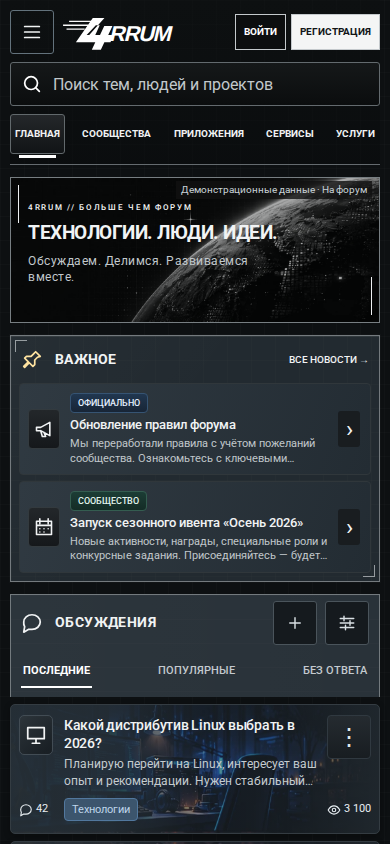
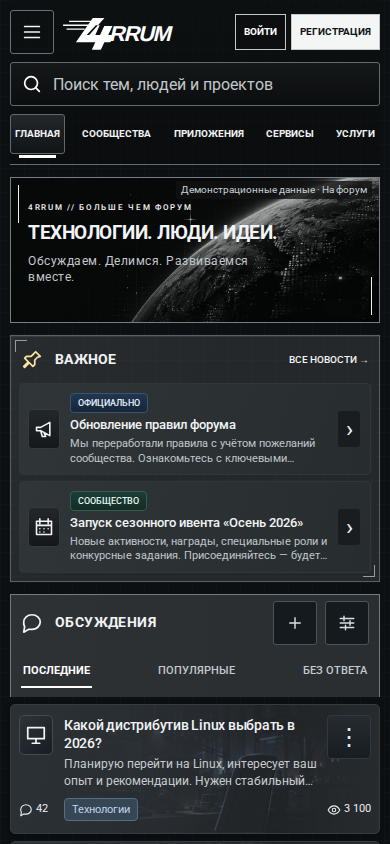
Главная: сдержанная графитовая палитра и спокойная лента (#118)
* Спокойный нейтральный графит и приглушённые иллюстрации ленты

* Снять эталоны спокойной палитры для просмотра

* Закрепить просмотренные эталоны сдержанной палитры

diff --git a/apps/web/app/home-alpha.css b/apps/web/app/home-alpha.css
@@ -9,7 +9,7 @@ body:has(.forum-home) {background-color:#0d1012!important;color:#f1f3f4;min-heig
 body:has(.forum-home) .app-page-frame {display:block;margin:0;padding:0;}
 body:has(.forum-home) main.shell.main {width:100%;max-width:none;margin:0;padding:0;overflow:visible;}
 body:has(.forum-home) .site-footer {display:none;}
-.forum-home {--f-text:#f1f3f4;--f-muted:#b2b9bd;--f-line:#59666e;--f-accent:#e5f3f0;--f-panel:#222a30;display:grid;grid-template-columns:274px minmax(0,1fr) 344px;grid-template-rows:78px 162px auto;gap:16px 18px;max-width:1712px;margin:0 auto;padding:0 20px 36px;font:400 14px/1.35 ForumRoboto,Arial,sans-serif;letter-spacing:normal;min-width:0;color:var(--f-text);}
+.forum-home {--f-text:#f1f3f4;--f-muted:#b2b9bd;--f-line:#59666e;--f-accent:#e5f3f0;--f-panel:#24282b;display:grid;grid-template-columns:274px minmax(0,1fr) 344px;grid-template-rows:78px 162px auto;gap:16px 18px;max-width:1712px;margin:0 auto;padding:0 20px 36px;font:400 14px/1.35 ForumRoboto,Arial,sans-serif;letter-spacing:normal;min-width:0;color:var(--f-text);}
 .forum-home,.forum-home * {box-sizing:border-box;}
 .forum-home :is(h1,h2,h3,p,ol,dl,dd) {margin:0;}
 .forum-home :is(h1,h2,h3) {font-family:inherit;color:var(--f-text);text-shadow:none;}
@@ -41,7 +41,7 @@ body:has(.forum-home) .site-footer {display:none;}
 .forum-home .profile-menu .text-button {font-size:12px;color:#bdc5c9;}
 .forum-home .forum-header-join,.forum-home .forum-menu,.forum-home .forum-sidebar-close,.forum-home .forum-sidebar-backdrop {display:none;}
 .forum-home .forum-sidebar {grid-column:1;grid-row:2/4;display:flex;flex-direction:column;gap:18px;position:static;min-width:0;height:auto;padding:0;background:transparent;border:0;overflow:visible;align-self:start;}
-.forum-home :is(.forum-categories,.forum-side-stats,.forum-panel,.forum-important) {position:relative;border:1px solid #747a7e;border-radius:0;background:linear-gradient(125deg,#ffffff03,transparent 45%),#222a30;box-shadow:inset 0 1px #ffffff10;}
+.forum-home :is(.forum-categories,.forum-side-stats,.forum-panel,.forum-important) {position:relative;border:1px solid #596065;border-radius:0;background:linear-gradient(125deg,#ffffff03,transparent 45%),#24282b;box-shadow:inset 0 1px #ffffff10;}
 .forum-home :is(.forum-categories,.forum-side-stats,.forum-panel,.forum-important)::before {content:'';position:absolute;inset:4px;pointer-events:none;background:linear-gradient(#c8cccf,#c8cccf) left top/12px 1px no-repeat,linear-gradient(#c8cccf,#c8cccf) left top/1px 12px no-repeat,linear-gradient(#c8cccf,#c8cccf) right bottom/12px 1px no-repeat,linear-gradient(#c8cccf,#c8cccf) right bottom/1px 12px no-repeat;opacity:.7;}
 .forum-home :is(.forum-categories,.forum-side-stats,.forum-panel)::after {content:'+';position:absolute;top:10px;right:12px;font:16px monospace;color:#c1c8cb;pointer-events:none;}
 .forum-home .forum-categories {padding:0 10px 14px;}
@@ -88,7 +88,7 @@ body:has(.forum-home) .site-footer {display:none;}
 .forum-home .forum-important>header h2 svg {color:#ffe3a0;}
 .forum-home .forum-important>header>a {font-size:12px;font-weight:500;text-transform:uppercase;white-space:nowrap;}
 .forum-home .forum-important-list {padding:0 8px 8px;display:grid;gap:6px;}
-.forum-home .forum-important-row {display:grid;grid-template-columns:48px 98px minmax(0,1fr) 89px 42px 54px 28px;align-items:center;gap:10px;min-height:68px;padding:6px;border:1px solid #30373b;border-radius:4px;background:linear-gradient(110deg,#303a42,#232c33);}
+.forum-home .forum-important-row {display:grid;grid-template-columns:48px 98px minmax(0,1fr) 89px 42px 54px 28px;align-items:center;gap:10px;min-height:68px;padding:6px;border:1px solid #30373b;border-radius:4px;background:linear-gradient(110deg,#303538,#272c2f);}
 .forum-home .forum-important-icon {display:grid;place-items:center;width:46px;height:46px;border:1px solid #333a3e;border-radius:4px;background:linear-gradient(#23272a,#15181b);}
 .forum-home .forum-important-icon svg {width:26px;height:26px;}
 .forum-home .forum-important-copy {display:contents;}
@@ -101,7 +101,7 @@ body:has(.forum-home) .site-footer {display:none;}
 .forum-home .forum-important-stat {display:flex;gap:5px;align-items:center;font-size:12px;white-space:nowrap;}
 .forum-home .forum-important-stat svg {width:18px;height:18px;}
 .forum-home .forum-important-arrow {display:grid;place-items:center;width:26px;height:36px;background:#191d20;border-radius:3px;font-size:24px;}
-.forum-home .forum-feed-toolbar {margin-top:14px;display:flex;align-items:center;gap:10px;min-height:50px;padding:0 13px;border:1px solid #737a7e;border-bottom:0;background:#293239;}
+.forum-home .forum-feed-toolbar {margin-top:14px;display:flex;align-items:center;gap:10px;min-height:50px;padding:0 13px;border:1px solid #737a7e;border-bottom:0;background:#2a2e31;}
 .forum-home .forum-feed-title {display:flex;align-items:center;gap:12px;font-size:16px;font-weight:700;letter-spacing:.4px;text-transform:uppercase;white-space:nowrap;}
 .forum-home .forum-tabs {display:flex;gap:18px;margin-left:auto;min-width:0;}
 .forum-home .forum-tabs button {position:relative;min-height:44px;padding:0 2px;font-size:11px;text-transform:uppercase;white-space:nowrap;font-weight:500;color:#c4cacf;border-radius:0;}
@@ -112,7 +112,8 @@ body:has(.forum-home) .site-footer {display:none;}
 .forum-home :is(.forum-feed-create,.forum-filter-toggle) svg {width:18px;height:18px;}
 .forum-home .forum-topic-columns {display:grid;grid-template-columns:minmax(0,1fr) 122px 44px 64px 158px 30px;gap:10px;min-height:30px;padding:0 10px 0 80px;align-items:center;border:1px solid #3d4549;color:#ced4d7;font-size:10px;text-transform:uppercase;white-space:nowrap;}
 .forum-home .forum-feed {display:grid;gap:5px;border:0;background:transparent;overflow:visible;}
-.forum-home .forum-topic {position:relative;display:grid;grid-template-columns:54px minmax(0,1fr) 122px 44px 64px 158px 30px;gap:10px;align-items:center;min-height:62px;margin:0;padding:4px 10px 4px 14px;border:1px solid #343c42;border-radius:5px;background-color:#252e35;background-image:linear-gradient(90deg,#252e35fa 0%,#252e35ed 26%,#252e358a 52%,#252e358f 75%,#252e35cc 100%),var(--topic-image);background-size:auto,100% auto;background-repeat:no-repeat;background-position:center,right center;box-shadow:0 2px 6px #0005;transition:border-color .15s,box-shadow .15s;isolation:isolate;}
+.forum-home .forum-topic {position:relative;display:grid;grid-template-columns:54px minmax(0,1fr) 122px 44px 64px 158px 30px;gap:10px;align-items:center;min-height:66px;margin:0;padding:4px 10px 4px 14px;border:1px solid #343c42;border-radius:5px;background-color:#282d31;background-image:linear-gradient(110deg,#ffffff04,transparent 65%);box-shadow:0 2px 6px #0005;transition:border-color .15s,box-shadow .15s;isolation:isolate;}
+.forum-home .forum-topic::after {content:"";position:absolute;inset:0;z-index:-1;border-radius:inherit;pointer-events:none;background-image:var(--topic-image);background-size:100% auto;background-position:right center;filter:saturate(.28) contrast(.85);opacity:.65;mask-image:linear-gradient(90deg,transparent 15%,#0003 45%,#000 70%,#0003 100%);}
 .forum-home .forum-topic:hover,.forum-home .forum-topic:focus-within {z-index:2;border-color:#9ab8c9;box-shadow:0 0 0 1px #829bad55,0 3px 12px #0008;}
 .forum-home .forum-topic:has(.forum-actions-popover),.forum-home .forum-topic:has(.forum-action-notice) {z-index:30;}
 .forum-home .forum-topic:is(.is-unread,.is-updated)::before {content:'';position:absolute;left:0;top:5px;bottom:5px;width:3px;border-radius:2px;background:#77cbbb;box-shadow:0 0 7px #77cbbb45;}
@@ -124,10 +125,10 @@ body:has(.forum-home) .site-footer {display:none;}
 .forum-home .forum-topic > :not(.forum-topic-content) {position:relative;z-index:1;}
 .forum-home .forum-topic-content {grid-column:2;grid-row:1;min-width:0;}
 .forum-home .forum-topic h2 {font-size:14px;line-height:1.22;font-weight:500;margin:0 0 4px;display:-webkit-box;-webkit-line-clamp:2;-webkit-box-orient:vertical;overflow:hidden;}
-.forum-home .forum-topic-excerpt {font-size:12px;line-height:1.25;color:#c5ccd0;display:-webkit-box;-webkit-line-clamp:2;-webkit-box-orient:vertical;overflow:hidden;margin:0;}
+.forum-home .forum-topic-excerpt {font-size:12px;line-height:1.4;color:#c9cdcf;display:-webkit-box;-webkit-line-clamp:2;-webkit-box-orient:vertical;overflow:hidden;margin:0;}
 .forum-home .forum-topic-context {display:none;}
 .forum-home .forum-topic-category-cell {grid-column:3;min-width:0;}
-.forum-home .forum-topic-category-cell a {display:block;overflow:hidden;text-overflow:ellipsis;white-space:normal;overflow-wrap:anywhere;line-height:1.2;border:1px solid color-mix(in srgb,var(--chip-accent,#98b4cd) 65%,#2c3842);border-radius:4px;background:color-mix(in srgb,var(--chip-accent,#98b4cd) 34%,#26313a);color:color-mix(in srgb,var(--chip-accent,#98b4cd) 42%,#fff);font-size:12px;padding:5px 8px;}
+.forum-home .forum-topic-category-cell a {display:block;overflow:hidden;text-overflow:ellipsis;white-space:normal;overflow-wrap:anywhere;line-height:1.2;border:1px solid color-mix(in srgb,var(--chip-accent,#98b4cd) 45%,#42484c);border-radius:4px;background:color-mix(in srgb,var(--chip-accent,#98b4cd) 22%,#2a2e31);color:color-mix(in srgb,var(--chip-accent,#98b4cd) 42%,#fff);font-size:12px;padding:5px 8px;}
 .forum-home .forum-topic-metric {display:flex;align-items:center;justify-content:center;font-size:13px;font-variant-numeric:tabular-nums;color:#e8eef2;white-space:nowrap;}
 .forum-home .forum-topic-metric svg {display:none;}
 .forum-home .forum-topic-last {display:flex;align-items:center;gap:10px;min-width:0;}
@@ -282,8 +283,9 @@ body:has(.forum-home) .site-footer {display:none;}
 }
 @media (max-width:360px) {.forum-home .forum-brand img {width:112px;}.forum-home .forum-topbar {gap:5px;}.forum-home .auth-actions a {padding-inline:6px;font-size:9px;}.forum-home .forum-primary a {font-size:9px;}}
 @media (prefers-reduced-motion:reduce) {.forum-home * {transition:none;animation:none;scroll-behavior:auto;}}
-@media (prefers-reduced-data:reduce) {.forum-home .forum-hero-art {display:none;}.forum-home .forum-topic {background-image:none;}}
-@media (forced-colors:active) {.forum-home :is(a,button,input,summary):focus-visible {outline:2px solid Highlight;}.forum-home :is(.forum-topic,.forum-panel,.forum-important,.forum-categories,.forum-side-stats) {border-color:CanvasText;}.forum-home .forum-hero-art {display:none;}}
+@media (max-width:760px) {.forum-home .forum-topic::after {background-size:cover;opacity:.45;}}
+@media (prefers-reduced-data:reduce) {.forum-home .forum-topic::after {display:none;}.forum-home .forum-hero-art {display:none;}.forum-home .forum-topic {background-image:none;}}
+@media (forced-colors:active) {.forum-home .forum-topic::after {display:none;}.forum-home :is(a,button,input,summary):focus-visible {outline:2px solid Highlight;}.forum-home :is(.forum-topic,.forum-panel,.forum-important,.forum-categories,.forum-side-stats) {border-color:CanvasText;}.forum-home .forum-hero-art {display:none;}}
 
 @media (min-width:1051px) {.forum-home .forum-app-category,.forum-home .forum-all-communities {display:none;}}
 
